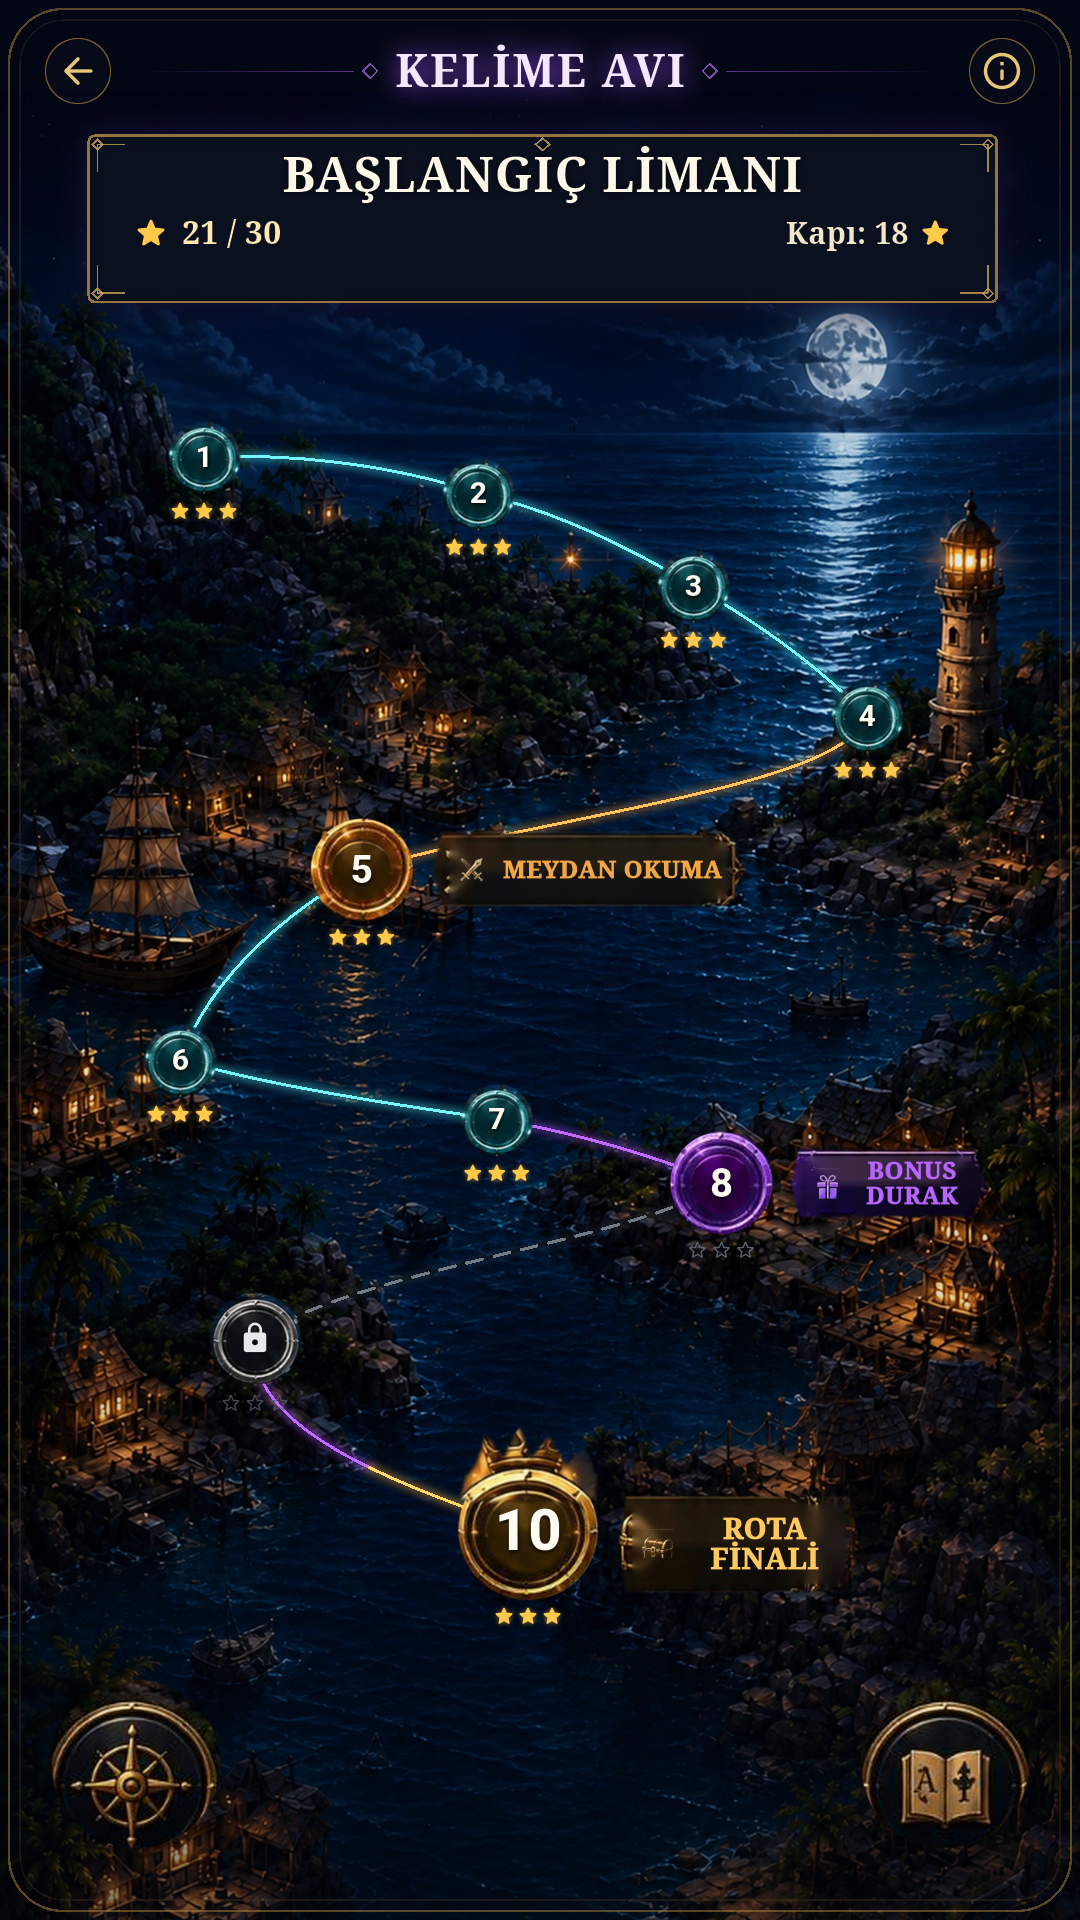
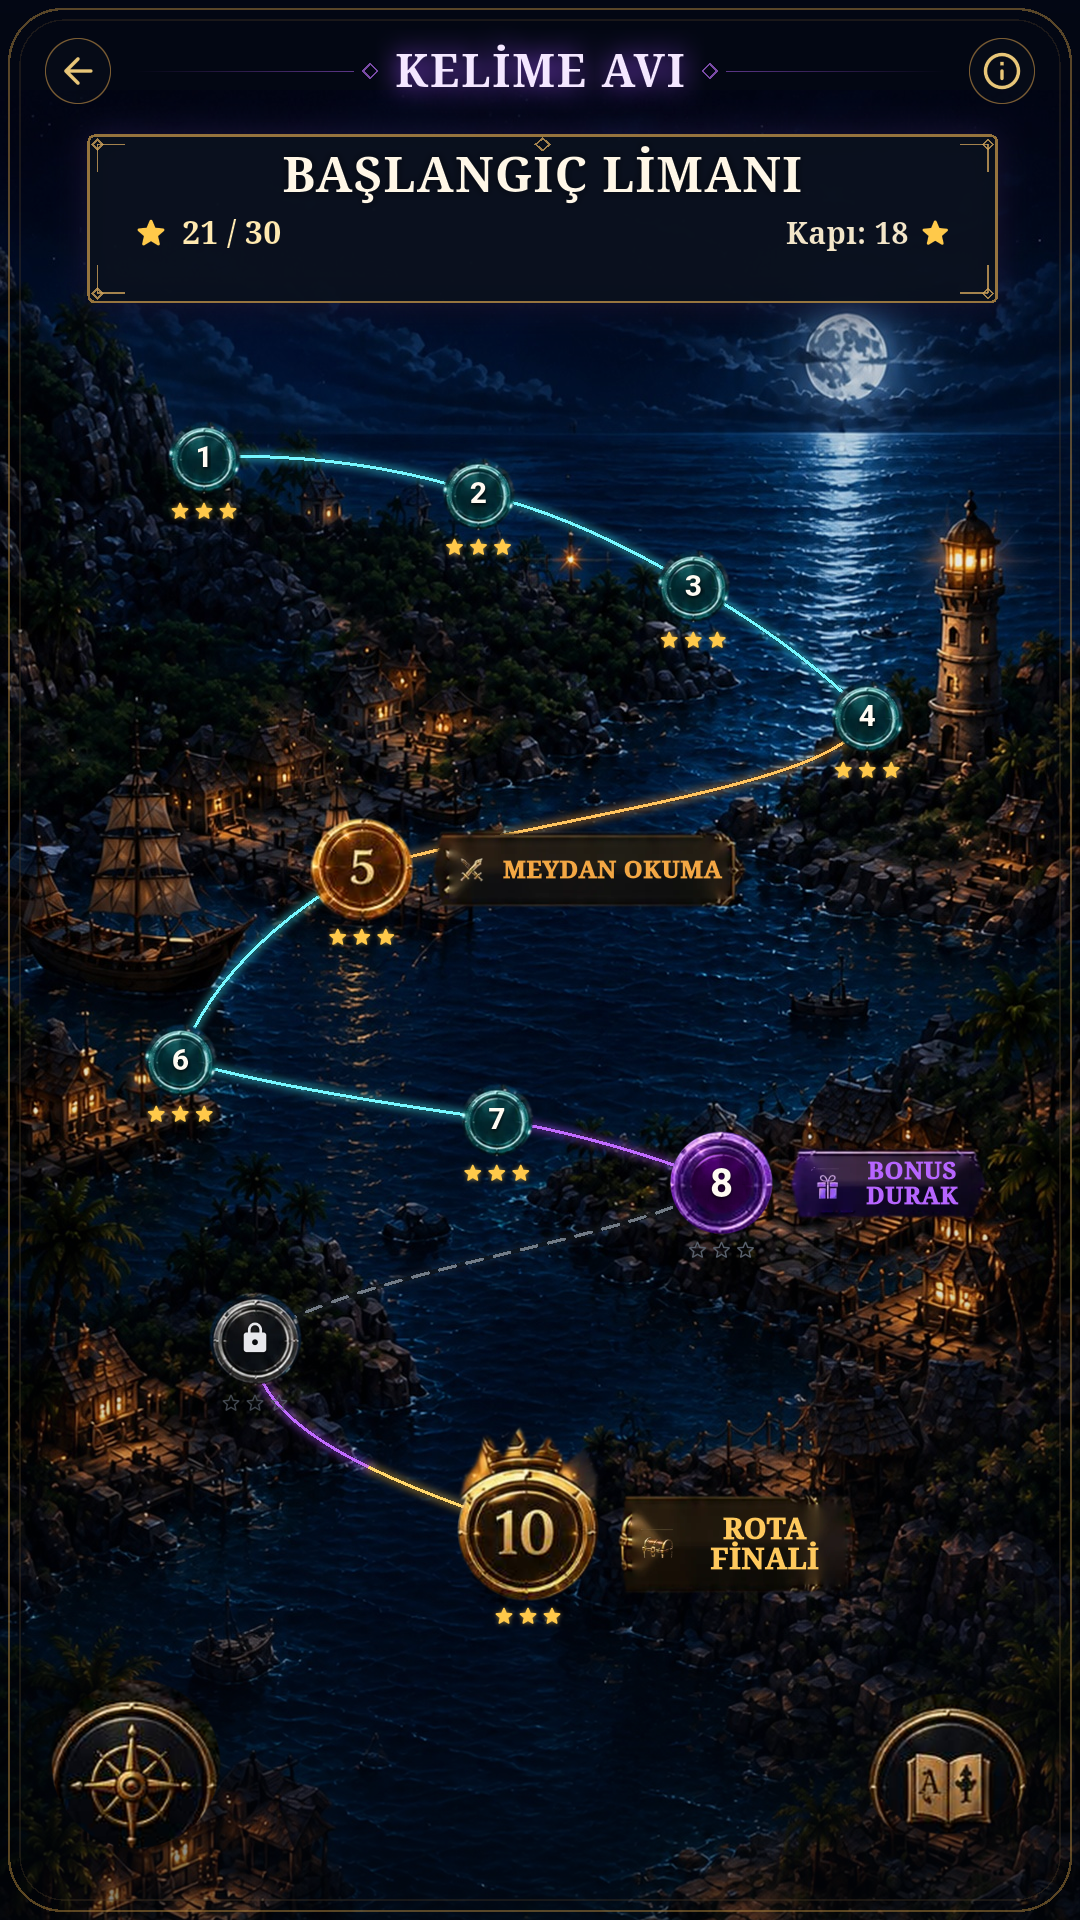
docs: record direct master art Android 16 proof

Changed region(s): [[0.7944, 0.875, 0.9472, 0.9688], [0.4278, 0.7812, 0.55, 0.8438], [0.275, 0.4062, 0.3972, 0.5]]

diff --git a/reports/design-qa.md b/reports/design-qa.md
@@ -1,33 +1,42 @@
 # Başlangıç Limanı MASTER ART ↔ Android 16 Design QA
 
-> **SUPERSEDED / VISUAL FAIL:** Levent, product head `8b1731c...` ekranındaki
-> `node_challenge.webp`, `node_final.webp` ve `book_button.webp` kaynak
-> sadakatini reddetti. Aşağıdaki eski ajan değerlendirmesi görsel kabul olarak
-> kullanılamaz. Yeni direct-pixel extraction exact-head Android 16 kanıtı
-> üretilene kadar `final result: failed`.
+## Evidence
 
-- Binding reference: Issue #109 `Photo 1.jpg`, normalized to `1080x1920`.
-- Product head: `8b1731cbf91ec5c3c997ae8841eabb3b20383705`.
-- Android 16 run/job: `32750728333` / `97506798151`.
-- Artifact: `9529208713`, digest `sha256:30f3e4d0b51f2b5a6df756dbdfd611b29e936440eda5d44292807b29bfe8e3e9`.
[3 lines of base64/hex data omitted]
+- Exact product head: `89c1416906c048cd7fd350b9432261a59e30b115`.
+- GitHub Actions run/job: `32756717218` / `97525842035`.
+- Artifact: `9531391794`; digest `sha256:85f74cd05a222c40acdc2c543d3f580919156816f26c6aae0909af1e10fe7c3d`.
+- State: deterministic proof progress `21 / 30`, gate `18`; this intentionally differs from the MASTER ART's static `12 / 30`.
+- Density normalization: source and implementation are both compared at native `1080x1920`; no scale or device-frame mismatch.
 
-## Product Design comparison
+## Comparison history
 
-- Background composition: deep-blue harbor, moon reflection, right lighthouse, warm settlement lights, ships and rocky shoreline preserve the binding scene hierarchy.
-- Nodes 1–4 and 6–7: compact teal/cyan medallion family, three stars and measured spacing are preserved.
-- Stop 5: distinct amber/gold medallion, single-line `MEYDAN OKUMA`, sword asset and plaque remain legible.
-- Stop 8: distinct purple medallion, gift asset and `BONUS DURAK` plaque remain legible.
-- Stop 9: silver locked state, empty stars and dashed branch remain legible.
-- Stop 10: visibly larger gold medallion, separate crown, three gold stars and chest plaque preserve final emphasis.
-- Route: cyan main route, amber challenge transition, purple bonus/final transition and dashed locked branch remain visually distinct.
-- Top panel: dynamic `21 / 30`, `Kapı: 18`, back/info controls and measured frame hierarchy are preserved; no fake `12 / 30` state is used.
-- Bottom controls: the compass and open book with a visible `A` use production image assets and match the binding visual family.
-- Geometry: `1080x1920` canonical centers, node sizes, plaque bounds and bottom control centers have zero contract delta.
+1. Product head `8b1731cbf91ec5c3c997ae8841eabb3b20383705`, run `32750728333`: **VISUAL FAIL**. Levent rejected the provenance of the 5, 10 and book assets. The previous agent assessment is invalid and is not acceptance evidence.
+2. Product head `5b16dae6996a5a3910f231660bded1973ec402cb`, run `32755160613`: direct MASTER ART crops replaced the rejected assets, but transparent outer canvas visibly reduced 5 and 10 relative to their measured contract sizes. Result remained blocked.
+3. Product head `89c1416906c048cd7fd350b9432261a59e30b115`, run `32756717218`: only fully transparent extraction padding was trimmed. RGB content remains source-pixel-identical; Flutter now displays the visible 5, 10 and book at their measured contract scale.
 
-## Result
+## Product Design findings
 
-`VISUAL FAIL / DIRECT MASTER ART EXTRACTION IN PROGRESS`
+- No agent-actionable P0/P1/P2 finding remains in the three corrected regions.
+- Image quality and asset fidelity: 5, 10 and book are direct crop/mask/alpha extractions from the binding MASTER ART. The manifest records source crop coordinates, deterministic hashes, `source_pixel_identity: true`, `generated_art: false`, and no forbidden source. No procedural redraw, Canvas/CustomPainter replacement or rejected PR #146 image is used.
+- Spacing and layout rhythm: node centers, contract diameters, plaque bounds and bottom-control centers remain unchanged. Trimming transparent canvas corrects visible scale without moving route geometry.
+- Colors and visual tokens: amber 5, gold 10 and gold book colors are the MASTER ART's own pixels; no replacement palette or generated gradient was introduced.
+- Fonts and typography: Flutter-rendered dynamic title, progress and plaque copy remain legible. The proof correctly shows real `21 / 30` instead of copying static `12 / 30` from the reference.
+- Copy/content: `MEYDAN OKUMA`, `BONUS DURAK`, `ROTA FİNALİ`, `BAŞLANGIÇ LİMANI` and `Kapı: 18` are present; the book retains the source `A` and right-page symbol.
+- Full-view evidence: scene, route hierarchy and control placement remain stable after the extraction-only correction.
+- Focused evidence: the same-canvas image clearly exposes the 5, 10 and book regions at native resolution; no separate focused crop is required for the requested provenance correction.
 
-`final result: failed`
+## Technical evidence
 
-PR #146 and run `32740827443`: **REJECTED BY LEVENT — NOT A VISUAL SOURCE**.
[1 lines of base64/hex data omitted]
+- Source equals packaged assets: `YES`, `15/15`.
+- Runtime asset-load markers: `15/15`.
+- App-specific crash, ANR, FATAL EXCEPTION and process-death scan: `0` matches.
+
+## Blocker
+
+Levent has not yet reviewed and explicitly accepted the new exact-head Android 16 screenshot. Agent technical QA is not user visual acceptance; PR #147 must remain Draft and unmerged.
+
+final result: blocked

diff --git a/docs/project-memory/BILGI_ROTASI_DURUM.md b/docs/project-memory/BILGI_ROTASI_DURUM.md
@@ -2,20 +2,19 @@
 
 ## 0Q. Issue #109 MASTER ART production asset tamamlama — 24 Ağustos 2026
 
-> **SONRAKİ KULLANICI KARARI / GEÇERSİZ KANIT:** Product head `8b1731c...`
-> ve run `32750728333` teknik olarak PASS olsa da Levent, 5/10/kitap asset
-> kaynak sadakatini **VISUAL FAIL** olarak reddetti. Bu screenshot ve aşağıdaki
-> eski ajan P0/P1/P2 değerlendirmesi görsel kabul değildir. Yalnız MASTER ART
-> direct-pixel crop/mask extraction ile yeni exact-head Android 16 kanıtı
-> üretilecektir.
+> **GEÇERSİZ ESKİ KANIT:** Product head `8b1731c...` ve run `32750728333`
+> teknik olarak PASS olsa da Levent, 5/10/kitap asset kaynak sadakatini
+> **VISUAL FAIL** olarak reddetti. Yeni kanıt yalnız bağlayıcı MASTER ART
+> direct-pixel crop/mask/alpha extraction'ından üretilmiştir; bu yeni ajan
+> doğrulaması da Levent'in nihai görsel kabulü değildir.
 
 - Kanonik repo `ZMilaStudio/BilgiRotasi`; canlı release `release/final-closed-test-aab-1.68.8` head `8977d7ecdc88b50aedc9933739a1e17ac5b39833`. Çalışma PR #132 exact head `1968c4bccd22468bec50f2188414a3e5f6f3fa4b` üzerinden ayrı `fix/kelime-avi-baslangic-limani-master-art-codex-20260824` branch'inde yürütüldü; Draft PR #147 açık, merge yok. Sürüm `1.68.19+109` kaldı.
 - Issue #109 `Photo 1.jpg` tek bağlayıcı MASTER ART'tır. `720x1280` kaynak, `1080x1920` kanonik rapora normalize edildi. PR #146 ve run `32740827443` **REJECTED BY LEVENT — NOT A VISUAL SOURCE** olarak kaydedildi.
-- Product head `8b1731cbf91ec5c3c997ae8841eabb3b20383705`: 5 amber, 8 mor, 10 altın+crown; pusula; sol sayfasında `A` görünen kitap; challenge/bonus/final ikonları gerçek production asset olarak kullanılıyor. Procedural kılıç/sandık final-art painter'ları kaldırıldı; runtime background sözleşmesi gerçek `assets/word_hunt/baslangic_limani_bg.jpg` ile eşlendi.
-- Tüm 15 production asset bağımsız Flutter codec ile decode edildi ve APK içindeki kopyaları kaynaklarla byte-eşit doğrulandı. Focused Kelime Avı suite **103/103 PASS**; hedefli route/reference suite **24/24 PASS**; `dart analyze lib/word_hunt` **0 issue**; comparison tool analyze **0 issue**; `git diff --check` PASS.
[1 lines of base64/hex data omitted]
-- MASTER ART ve gerçek Android 16 ekranı aynı `2160x1920` tuvalde yan yana incelendi. İlk koşudaki küçük özel plaque ikonları agent QA ile tespit edilip widget içinde şeffaf padding telafisiyle büyütüldü; yeni exact-head ekran yeniden üretildi. Son agent Product Design QA'da açık P0/P1/P2 kalmadı; bu **Levent görsel kabulü değildir**.
[1 lines of base64/hex data omitted]
+- Product head `89c1416906c048cd7fd350b9432261a59e30b115`: `node_challenge.webp`, `node_final.webp` ve `book_button.webp` yalnız MASTER ART'ın kendi RGB piksellerinden crop/mask/alpha ile çıkarıldı. Şeffaf dış boşluk deterministik olarak kırpıldı; node merkezleri, contract çapları ve rota geometrisi değişmedi. Manifest `source_pixel_identity: true`, `generated_art: false` ve boş forbidden-source listesi kaydeder.
+- Hedefli direct-extraction/codec testleri **21/21 PASS**; önceki tam focused Kelime Avı suite **104/104 PASS**; `dart analyze lib/word_hunt` **0 issue** ve `git diff --check` PASS kaydı korunuyor.
[1 lines of base64/hex data omitted]
+- MASTER ART ve gerçek Android 16 ekranı aynı `2160x1920` tuvalde incelendi. Düzeltme istenen 5/10/kitap bölgelerinde ajan-actionable P0/P1/P2 kalmadı; `design-qa.md` Levent kabulü beklediği için `blocked` kalır. Bu **Levent görsel kabulü değildir**.
[1 lines of base64/hex data omitted]
 - `assets/questions.json`, production `lib/main.dart`, progression, BoardMap/67 node/3B, AdMob/Firebase/Android/release config ve `pubspec.yaml` değiştirilmedi.
 
 **Durum:** TECHNICAL PASS / ANDROID 16 PROOF READY / VISUAL USER ACCEPTANCE OPEN. PR #147 açık/Draft; Ready/merge yapılmadı.

diff --git a/docs/project-memory/GOREV_HAVUZU.md b/docs/project-memory/GOREV_HAVUZU.md
@@ -2,8 +2,8 @@
 
 ## 0P - 24 Ağustos 2026 / Issue #109 MASTER ART production tamamlama
 
-- **Durum:** ÖNCEKİ SCREENSHOT VISUAL FAIL / 5-10-KİTAP DIRECT MASTER ART EXTRACTION UYGULANIYOR / PR #147 AÇIK + DRAFT / MERGE YOK.
-- Branch `fix/kelime-avi-baslangic-limani-master-art-codex-20260824`; base PR #132 exact `1968c4bccd22468bec50f2188414a3e5f6f3fa4b`; product head `8b1731cbf91ec5c3c997ae8841eabb3b20383705`; sürüm `1.68.19+109`.
+- **Durum:** ÖNCEKİ SCREENSHOT VISUAL FAIL / DIRECT MASTER ART EXTRACTION + ANDROID 16 KANITI PASS / LEVENT GÖRSEL KABULÜ AÇIK / PR #147 AÇIK + DRAFT / MERGE YOK.
+- Branch `fix/kelime-avi-baslangic-limani-master-art-codex-20260824`; base PR #132 exact `1968c4bccd22468bec50f2188414a3e5f6f3fa4b`; exact product head `89c1416906c048cd7fd350b9432261a59e30b115`; sürüm `1.68.19+109`.
 
 **Bitti ölçütü:**
 - [x] Issue #109 `Photo 1.jpg` tek bağlayıcı MASTER ART olarak ölçüldü ve `1080x1920` sözleşmesi raporlandı.
@@ -11,9 +11,9 @@
 - [x] 5 amber, 8 mor, 10 büyük altın+crown; üç plaque ikonu; pusula ve `A` kitap gerçek asset yolunda.
 - [x] Procedural premium-art kılıç/sandık painter'ları final render yolundan kaldırıldı; hayalet `scene.webp` sözleşmesi temizlendi.
 - [x] Focused **103/103**, hedefli **24/24**, Kelime Avı analyze 0 issue, comparison tool analyze 0 issue, diff check PASS.
-- [x] Android 16 exact-head run/job `32750728333` / `97506798151` SUCCESS; artifact `9529208713`, digest `sha256:30f3e4d0b51f2b5a6df756dbdfd611b29e936440eda5d44292807b29bfe8e3e9`.
+- [x] Android 16 exact-head run/job `32756717218` / `97525842035` SUCCESS; artifact `9531391794`, digest `sha256:85f74cd05a222c40acdc2c543d3f580919156816f26c6aae0909af1e10fe7c3d`.
 - [x] APK 15/15 source-packaged byte parity; runtime 15/15 load; Activity resumed/visible; app crash/ANR/FATAL/process-death 0.
-- [ ] `8b1731c...` screenshot Levent tarafından 5/10/kitap kaynak sadakati nedeniyle VISUAL FAIL olarak reddedildi; yalnız MASTER ART direct-pixel extraction sonrası yeni exact-head screenshot üretilecek.
+- [x] `8b1731c...` screenshot Levent tarafından 5/10/kitap kaynak sadakati nedeniyle VISUAL FAIL olarak reddedildi; üç asset MASTER ART direct-source-pixel extraction ile değiştirildi ve yeni exact-head screenshot üretildi.
 - [x] PR #146 / run `32740827443`: **REJECTED BY LEVENT — NOT A VISUAL SOURCE**.
 - [ ] Levent gerçek Android 16 artifact screenshot'ını açıkça görsel kabul edecek.
 - [ ] Levent açık onay vermeden PR #147 Ready yapılmaz veya merge edilmez.

diff --git a/docs/project-memory/ACIK_SORULAR_VE_DOGRULAMALAR.md b/docs/project-memory/ACIK_SORULAR_VE_DOGRULAMALAR.md
@@ -3,12 +3,12 @@
 ## Issue #109 / Draft PR #147 MASTER ART kanıtı — AÇIK KULLANICI KABULÜ
 
 > `8b1731c...` / run `32750728333` ekranı Levent tarafından **VISUAL FAIL**
-> olarak reddedildi. 5, 10 ve kitap için yeni direct MASTER ART extraction ve
-> yeni Android 16 kanıtı tamamlanmadan bu kayıt kabul kanıtı değildir.
+> olarak reddedildi. 5, 10 ve kitap artık direct MASTER ART extraction'dır;
+> yeni Android 16 kanıtı teknik olarak hazırdır fakat kullanıcı kabulü değildir.
 
-- Product head `8b1731cbf91ec5c3c997ae8841eabb3b20383705`; Android 16 run/job `32750728333` / `97506798151` SUCCESS; artifact ID `9529208713`.
+- Exact product head `89c1416906c048cd7fd350b9432261a59e30b115`; Android 16 run/job `32756717218` / `97525842035` SUCCESS; artifact ID `9531391794`, digest `sha256:85f74cd05a222c40acdc2c543d3f580919156816f26c6aae0909af1e10fe7c3d`.
 - 15/15 asset decode/runtime/APK parity, MainActivity resumed/visible ve app-specific crash/ANR/FATAL/process-death 0 olarak doğrulandı.
-- Product Design yan-yana incelemesinde agent-actionable P0/P1/P2 kalmadı. Bu teknik/ajan sonucu Levent görsel kabulü yerine geçmez.
+- Product Design yan-yana incelemesinde düzeltilen 5/10/kitap bölgelerinde agent-actionable P0/P1/P2 kalmadı. Bu teknik/ajan sonucu Levent görsel kabulü yerine geçmez; `design-qa.md` bu nedenle `blocked` kalır.
 - PR #146 ve run `32740827443`: **REJECTED BY LEVENT — NOT A VISUAL SOURCE**.
 - **DOĞRULANACAK:** Levent `ANDROID16_ACTUAL.png` / `REFERENCE_VS_ACTUAL_SIDE_BY_SIDE.png` kanıtını açıkça kabul ediyor mu? O zamana kadar PR #147 açık/Draft/merge edilmemiş kalır.
 
